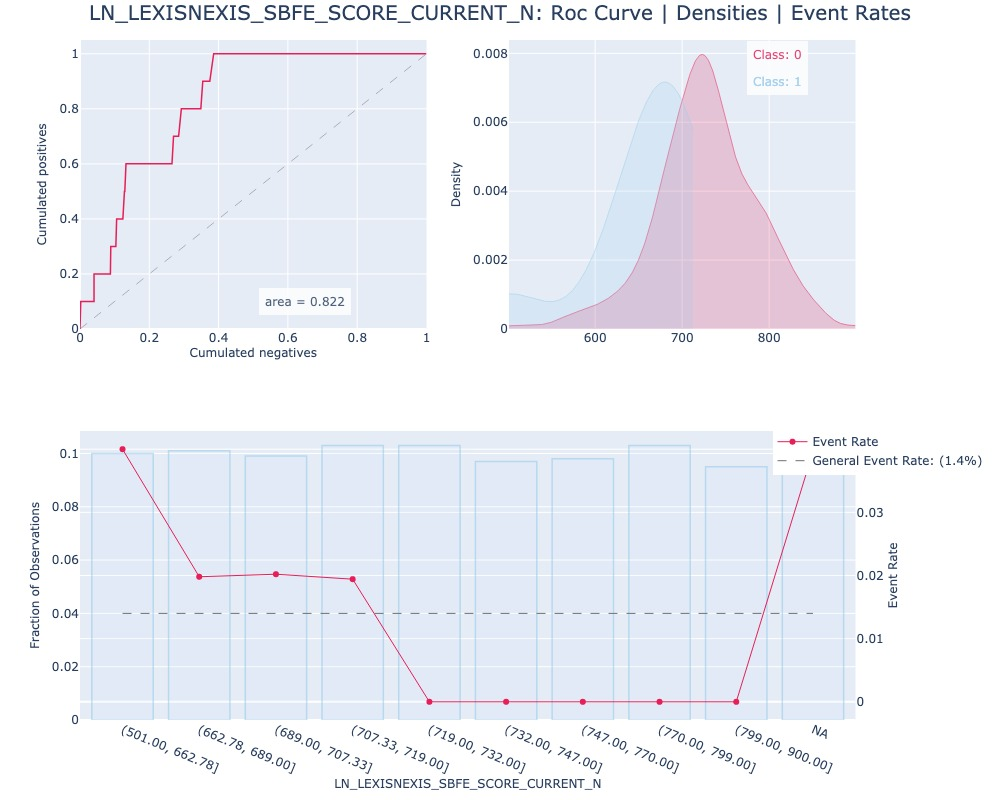
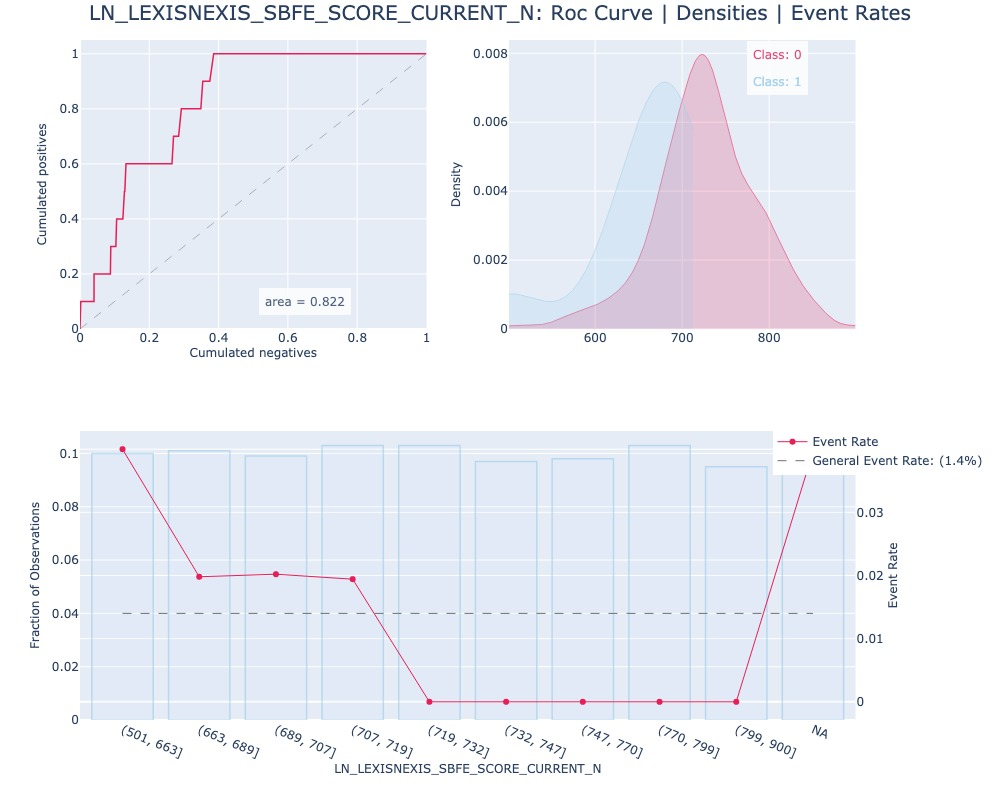
added logging everywhere

diff --git a/plottah/plot_handler/PlotHandler.py b/plottah/plot_handler/PlotHandler.py
@@ -4,6 +4,7 @@ from plottah.plots import PlotProtocol
 import pathlib
 
 import pandas as pd
+import logging
 
 
 @dataclass
@@ -130,6 +131,7 @@ class PlotHandler:
 
         """
         # add traces
+        logging.info(f"Building traces for {self.feature_col}")
         for trace_dict in subplot.get_traces():
             self.fig.add_trace(
                 trace_dict["trace"],
@@ -139,19 +141,23 @@ class PlotHandler:
             )
 
         # add annotations
+        logging.info(f"Building annotations for {self.feature_col}")
         for annotation in subplot.get_annotations(
             self.xrefs[row - 1][col - 1], self.yrefs[row - 1][col - 1]
         ):
             self.fig.add_annotation(**annotation)
 
         # update axes layout if specifed
+        logging.info(f"Building x axes for {self.feature_col}")
         if subplot.get_x_axes_layout(row, col) is not None:
             self.fig.update_xaxes(**subplot.get_x_axes_layout(row, col))
 
+        logging.info(f"Building y axes for {self.feature_col}")
         if subplot.get_y_axes_layout(row, col) is not None:
             self.fig.update_yaxes(**subplot.get_y_axes_layout(row, col))
 
         # update secondary y_axis if applicable
+        logging.info(f"Building secondary y-axes title for {self.feature_col}")
         if subplot.get_secondary_y_axis_title() is not None:
             # name of axis contained in self.yaxes on index (row - 1, col - 1) is the primary axes, plotly will store the secondary yaxis one further; i.e. stored at index (row - 1 , col)
             secondary_yaxis = self.yaxes[row - 1][col]
@@ -196,8 +202,11 @@ class PlotHandler:
         bottom.do_math(df, feature_col, target)
 
         # build each of the subplots
+        logging.info("Building topleft subplot")
         self.build_subplot(topleft, 1, 1)
+        logging.info("Building topright subplot")
         self.build_subplot(topright, 1, 2)
+        logging.info("Building bottom subplot")
         self.build_subplot(bottom, 2, 1)
 
         if show_fig:

diff --git a/plottah/plots/BinEventRatePlot.py b/plottah/plots/BinEventRatePlot.py
@@ -98,6 +98,7 @@ class StandardBinner:
         # set first and last value back to min and max before imputing
         bins[0] = min_val
         bins[n_bins - 1] = max_val
+        logging.info(f"using bins: {bins}")
 
         # update number of bins
         assert n_bins == len(bins)
@@ -119,6 +120,7 @@ class StandardBinner:
 
         # Create plot labels: [(4, 6), (6, 10), ...]
         self._labels = get_labels_from_bins(bins)
+        logging.info(f"using labels: {self._labels}")
 
         ## CLIPPING
 
@@ -182,6 +184,8 @@ class BinEventRatePlot(PlotProtocol):
         3. get the max density and feature value after imputing
         """
 
+        logging.info("Started math for BinEventRatePlot for {feature_col}")
+
         # set feature and target column names
         self.feature_col = feature_col
         self.target_col = target_col
@@ -211,7 +215,7 @@ class BinEventRatePlot(PlotProtocol):
             binner = CategoricalBinner()
             self.df, self.labels = binner.add_bins(self.df, self.feature_col)
         else:
-            logging.info("using standard binner")
+            logging.info("Using standard binner")
             if self.df[self.feature_col].nunique() < MIN_N_UNIQUE:
                 logging.warning(
                     f"{self.feature_col} only has {self.df[self.feature_col].nunique()} distinct values, consider switching feature type for {self.feature_col} to categorical (currenly {self.feature_type})"

diff --git a/plottah/plots/DistPlot.py b/plottah/plots/DistPlot.py
@@ -6,6 +6,8 @@ from .PlotProtocol import PlotProtocol
 from plottah.utils import remove_or_impute_nan_infs
 from plottah.colors import PlotColors
 
+import logging
+
 
 @dataclass
 class DistPlot(PlotProtocol):
@@ -23,6 +25,8 @@ class DistPlot(PlotProtocol):
         2. extract traces from the distplot function from plotly
         3. get the max density and feature value after imputing
         """
+
+        logging.info("Started math for DistPlot")
 
         # 1. impute/remove missing values
         self.df_imputed = remove_or_impute_nan_infs(df.copy(), feature_col, target_col)

diff --git a/plottah/plots/RocCurvePlot.py b/plottah/plots/RocCurvePlot.py
@@ -7,6 +7,7 @@ from plottah.plots.PlotProtocol import PlotProtocol
 from plottah.utils import remove_or_impute_nan_infs
 from plottah.colors import PlotColors
 
+import logging 
 
 @dataclass
 class RocCurvePlot(PlotProtocol):
@@ -23,6 +24,8 @@ class RocCurvePlot(PlotProtocol):
         1. imputes/removes missing values
         2. calculated fpr, tpr and AUC
         """
+
+        logging.info("Started math for RocCurvePlot")
 
         # 1. impute/remove missing values
         self.df_imputed = remove_or_impute_nan_infs(df.copy(), feature_col, target_col)

diff --git a/plottah/utils.py b/plottah/utils.py
@@ -2,6 +2,7 @@ import numpy as np
 import pandas as pd
 
 from typing import Tuple
+import logging
 
 
 def get_n_quantile_bins(
@@ -140,8 +141,9 @@ def get_labels_from_bins(bins: list) -> list:
     example: [0, 1, 2] -> ['(0.00, 1.00]', '(1.00, 2.00]']
     """
 
-    precision = 2
+    precision = 0
     while len(bins) > len(np.unique(np.round(bins, precision))):
+        logging.info(f"precision currently: {precision}")
         precision += 1
 
     labels = [

diff --git a/plottah/__main__.py b/plottah/__main__.py
@@ -28,7 +28,7 @@ def main():
     build_pp = args.build_powerpoint
 
     # set logging level
-    logging.basicConfig(level=logging.WARNING)
+    logging.basicConfig(level=logging.INFO)
 
     # set color palette to use
     color_palette = PlotColors(
